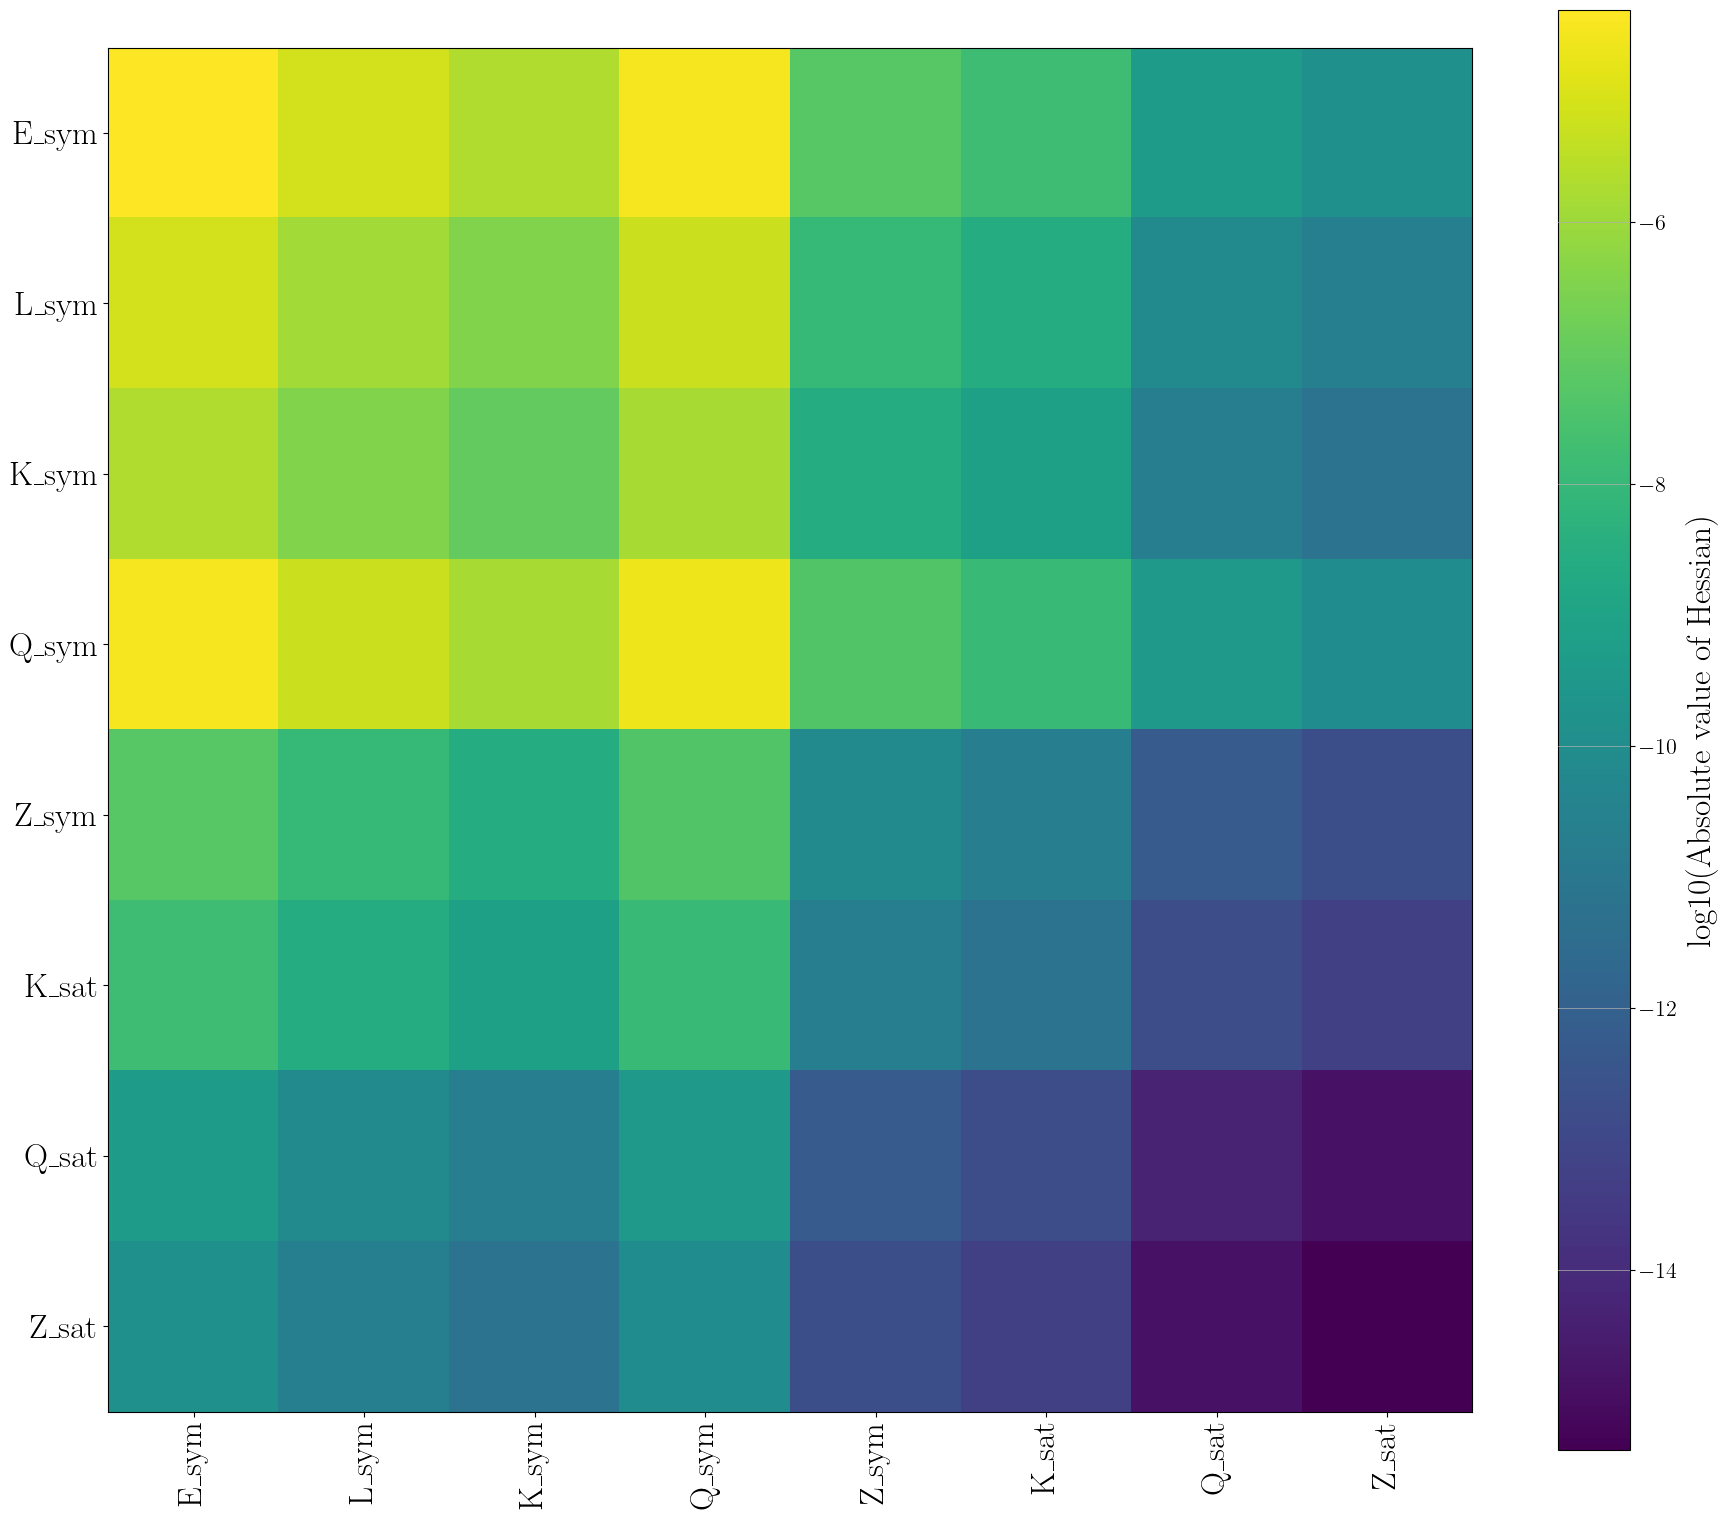
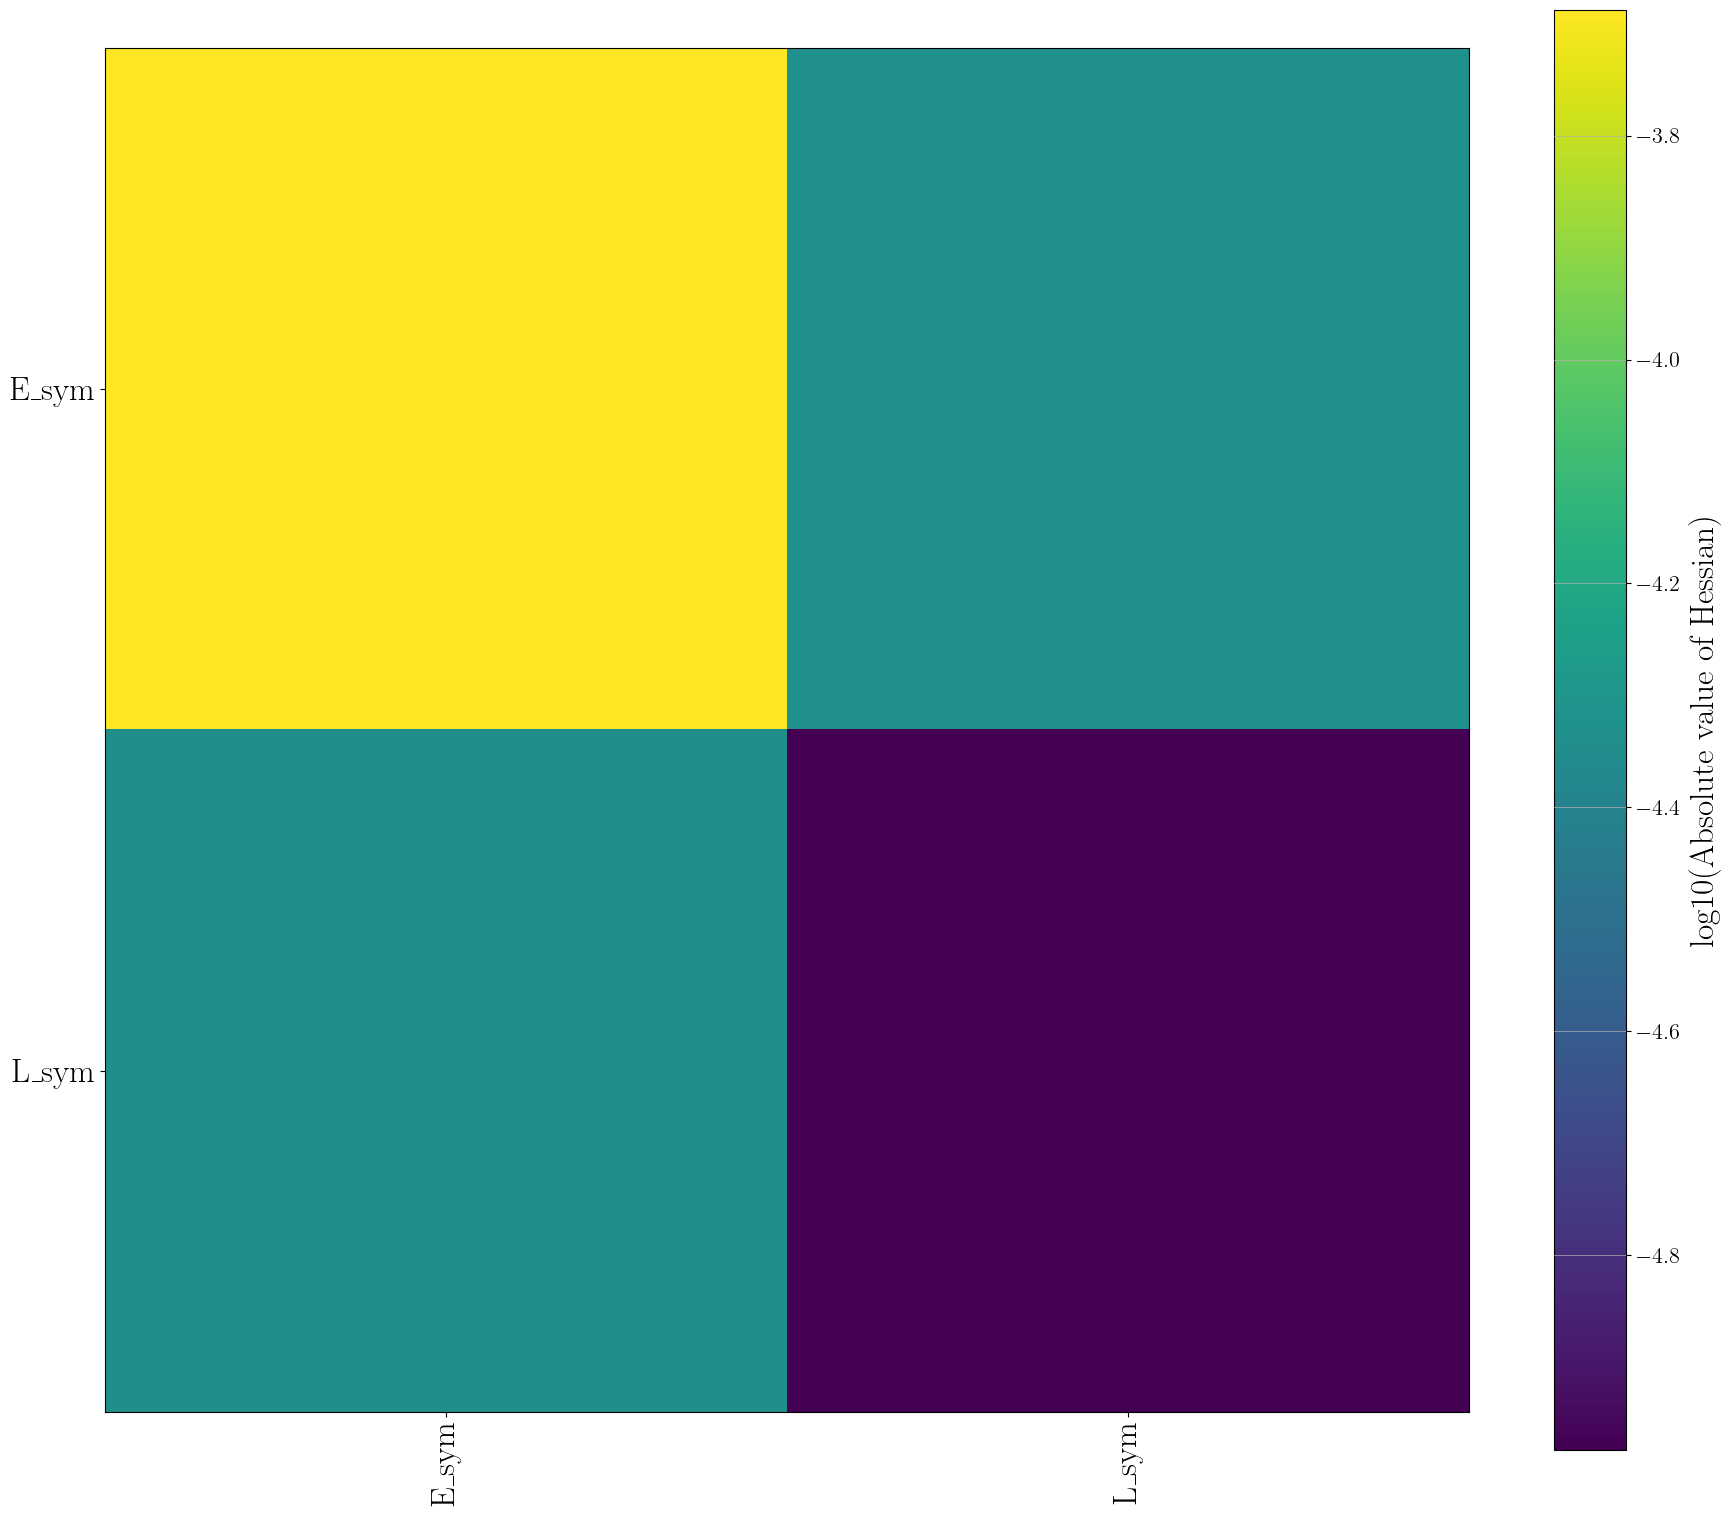
Trying to get the Fisher working

diff --git a/src/paper_jose/autodiff_showcase/fisher.py b/src/paper_jose/autodiff_showcase/fisher.py
@@ -165,7 +165,7 @@ class Fisher:
     
     def read_hessian_values(self,
                             take_log: bool = True,
-                            verbose: bool = True):
+                            verbose: bool = False):
         
         data = np.load(self.filename, allow_pickle = True)
         names = data["names"]
@@ -191,6 +191,8 @@ class Fisher:
         plt.yticks(range(n_dim), data["names"], fontsize = 24)
         plt.savefig("./figures/hessian.png", bbox_inches='tight')
         plt.close()
+        
+        return hessian_values
         
     def check_gaussianity(self, 
                           param_name: str = "E_sym",
@@ -220,6 +222,154 @@ class Fisher:
             plt.close()
             
         return param_values, log_likelihood_list
+    
+    def invert_hessian(self,
+                       hessian: np.array,
+                       verbose: bool = True):
+        
+        # from gwfast.fisherTools import CovMatr
+        import mpmath
+        
+        FisherM = hessian
+        FisherMatrixOr = copy.deepcopy(FisherM)
+    
+        reweighted=False
+        CovMatr = np.zeros(FisherM.shape)
+        cho_failed = 0
+        typeuse='float64'
+        # FisherM = FisherMatrix.astype(typeuse)
+        
+        # Check for NaN values
+        ff = mpmath.matrix(FisherM.astype(typeuse))
+        try:
+            # Conditioning of the original Fisher
+            
+            # Checks this by computing the eigenvalues of the FIM
+            E, _ = mpmath.eigh(ff)
+            E = np.array(E.tolist(), dtype=typeuse)
+            if np.any(E < 0) and verbose:
+                print('Matrix is not positive definite!')
+                print("E")
+                print(E)
+
+            cond = np.max(np.abs(E))/np.min(np.abs(E))
+            if verbose:
+                print('Condition of original matrix: %s' %cond)
+            
+            try:
+                # Normalize by the diagonal
+                ws =  mpmath.diag([ 1/mpmath.sqrt(ff[i, i]) for i in range(FisherM.shape[-2]) ])
+                FisherM_ = ws*ff*ws
+                # Conditioning of the new Fisher
+                EE, _ = mpmath.eigh(FisherM_)
+                E = np.array(EE.tolist(), dtype=typeuse)
+                cond = np.max(np.abs(E))/np.min(np.abs(E))
+                if verbose:
+                    print('Condition of the new matrix: %s' %cond)
+                reweighted=True
+            except ZeroDivisionError:
+                print('The Fisher matrix has a zero element on the diagonal. The normalization procedure will not be applied. Consider using a prior.')
+                FisherM_ = ff
+            
+            # Gi
+            invMethodIn='inv'
+            alt_method = 'svd'
+            invMethod = invMethodIn
+            if np.any(E<0):
+                if verbose:
+                    print('Matrix is not positive definite at position!')
+                if invMethodIn=='cho':
+                    cho_failed+=1
+                    invMethod=alt_method
+                    if verbose:
+                        print('Cholesky decomposition not usable. Using method %s' %invMethod)
+            elif invMethod=='cho':
+                try:
+                    # In rare cases, the choleski decomposition still fails even if the eigenvalues are positive...
+                    # likely for very small eigenvalues
+                    c = (mpmath.cholesky(FisherM_))**-1
+                    print("c is computed!")
+                except Exception as e:
+                    print(e)
+                    invMethod=alt_method
+                    print('Cholesky decomposition not usable. Eigenvalues seem ok but cholesky decomposition failed. Using method %s' %invMethod)
+                    #print('Eigenvalues: %s' %str(E))
+                    cho_failed+=1
+
+            if invMethod=='inv':
+                    cc = FisherM_**-1
+            elif invMethod=='cho':
+                    #c = cF**-1
+                    cc = c.T*c
+            elif invMethod=='svd':
+                    U, Sm, V = mpmath.svd_r(FisherM_)
+                    S = np.array(Sm.tolist(), dtype=typeuse)
+                    
+                    # TODO: check if needed?
+                    # if ((truncate) and (np.abs(cond)>condNumbMax)):
+                    #     if verbose:
+                    #         print('Truncating singular values below %s' %svals_thresh)
+                        
+                    #     maxev = np.max(np.abs(S))
+                    #     Sinv = mpmath.matrix(np.array([1/s if np.abs(s)/maxev>svals_thresh else 1/(maxev*svals_thresh) for s in S ]).astype(typeuse))
+                    #     St = mpmath.matrix(np.array([s if np.abs(s)/maxev>svals_thresh else maxev*svals_thresh for s in S ]).astype(typeuse))
+                        
+                    #     # Also copute truncated Fisher to quantify inversion error consistently
+                    #     truncFisher = U*mpmath.diag([s for s in St])*V
+                    #     truncFisher = (truncFisher+truncFisher.T)/2
+                    #     FisherMatrixOr[:, :, k] = np.array(truncFisher.tolist(), dtype=typeuse)
+                        
+                    #     if verbose:
+                    #         truncated = np.abs(S)/maxev<svals_thresh #np.array([1 if np.abs(s)/maxev>svals_thresh else 0 for s in S ]
+                    #         print('%s singular values truncated' %(truncated.sum()))
+                    # else:
+                    Sinv = mpmath.matrix(np.array([1/s for s in S ]).astype(typeuse))
+                    St = S
+                    
+                    cc=V.T*mpmath.diag([s for s in Sinv])*U.T
+                    
+            # elif invMethod=='svd_reg':
+                
+            #         U, Sm, V = mpmath.svd_r(FisherM_)
+                    
+            #         S = np.squeeze(np.array(Sm.tolist(), dtype=typeuse))
+            #         Um = np.array(U.tolist(), dtype=typeuse)
+            #         Vm = np.array(V.tolist(), dtype=typeuse)
+
+            #         kVal = sum(S > svals_thresh)
+                                                
+            #         Sinv = mpmath.matrix(np.array([1/s  for s in S ]).astype(typeuse))
+            #         cc = mpmath.matrix(Um[:, 0:kVal] @ np.diag(1. / S[0:kVal]) @ Vm[0:kVal, :])
+                                            
+                    
+            # elif invMethod=='lu':
+            #         P, L, U = mpmath.lu(FisherM_)
+            #         ll = P*L
+            #         llinv = ll**-1
+            #         uinv=U**-1
+            #         cc = uinv*llinv
+                    
+                    
+            #### END OF INVERSION METHODS
+            
+            # Enforce symmetry.
+            cc = (cc+cc.T)/2
+            
+            if reweighted:
+                # Undo the reweighting
+                CovMatr_ = ws*cc*ws
+            else:
+                CovMatr_ = cc
+
+            CovMatr =  np.array(CovMatr_.tolist(), dtype=typeuse)
+        
+        except Exception as e:
+            # Eigenvalue decomposition failed
+            print(e)
+            raise ValueError("Eigenvalue decomposition failed")
+    
+        return CovMatr
+        
     
 # TODO: remove me
 def compare_hessians():
@@ -253,12 +403,16 @@ def main():
     ### Compute the Fisher
     fisher = Fisher(NB_CSE = 0, filename = "my_hessian_values.npz")
     
-    # fisher.compute_hessian_values()
-    # fisher.read_hessian_values()
-    # compare_hessians()
+    fisher.compute_hessian_values()
+    hessian = fisher.read_hessian_values()
+    
+    # TODO: this is still breaking!
+    # ### Inversion of Fisher matrix
+    # test = fisher.invert_hessian(hessian)
+    # print(test)
     
     ### Gaussianity
-    check_all_gaussianity(fisher)
+    # check_all_gaussianity(fisher)
     
     print("DONE")
     
